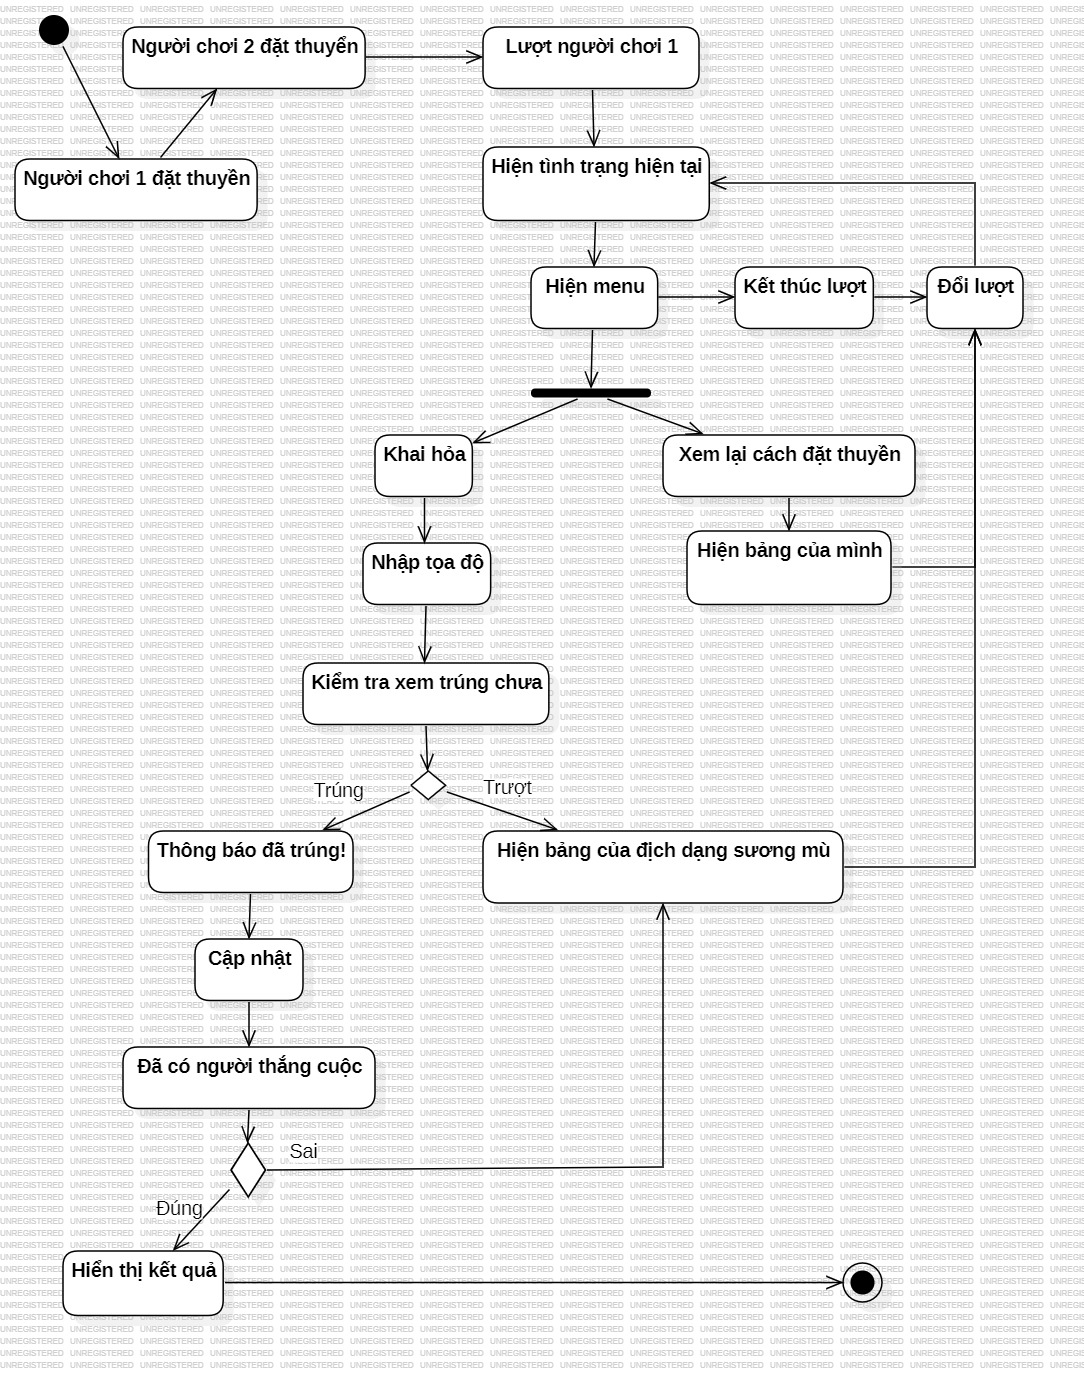
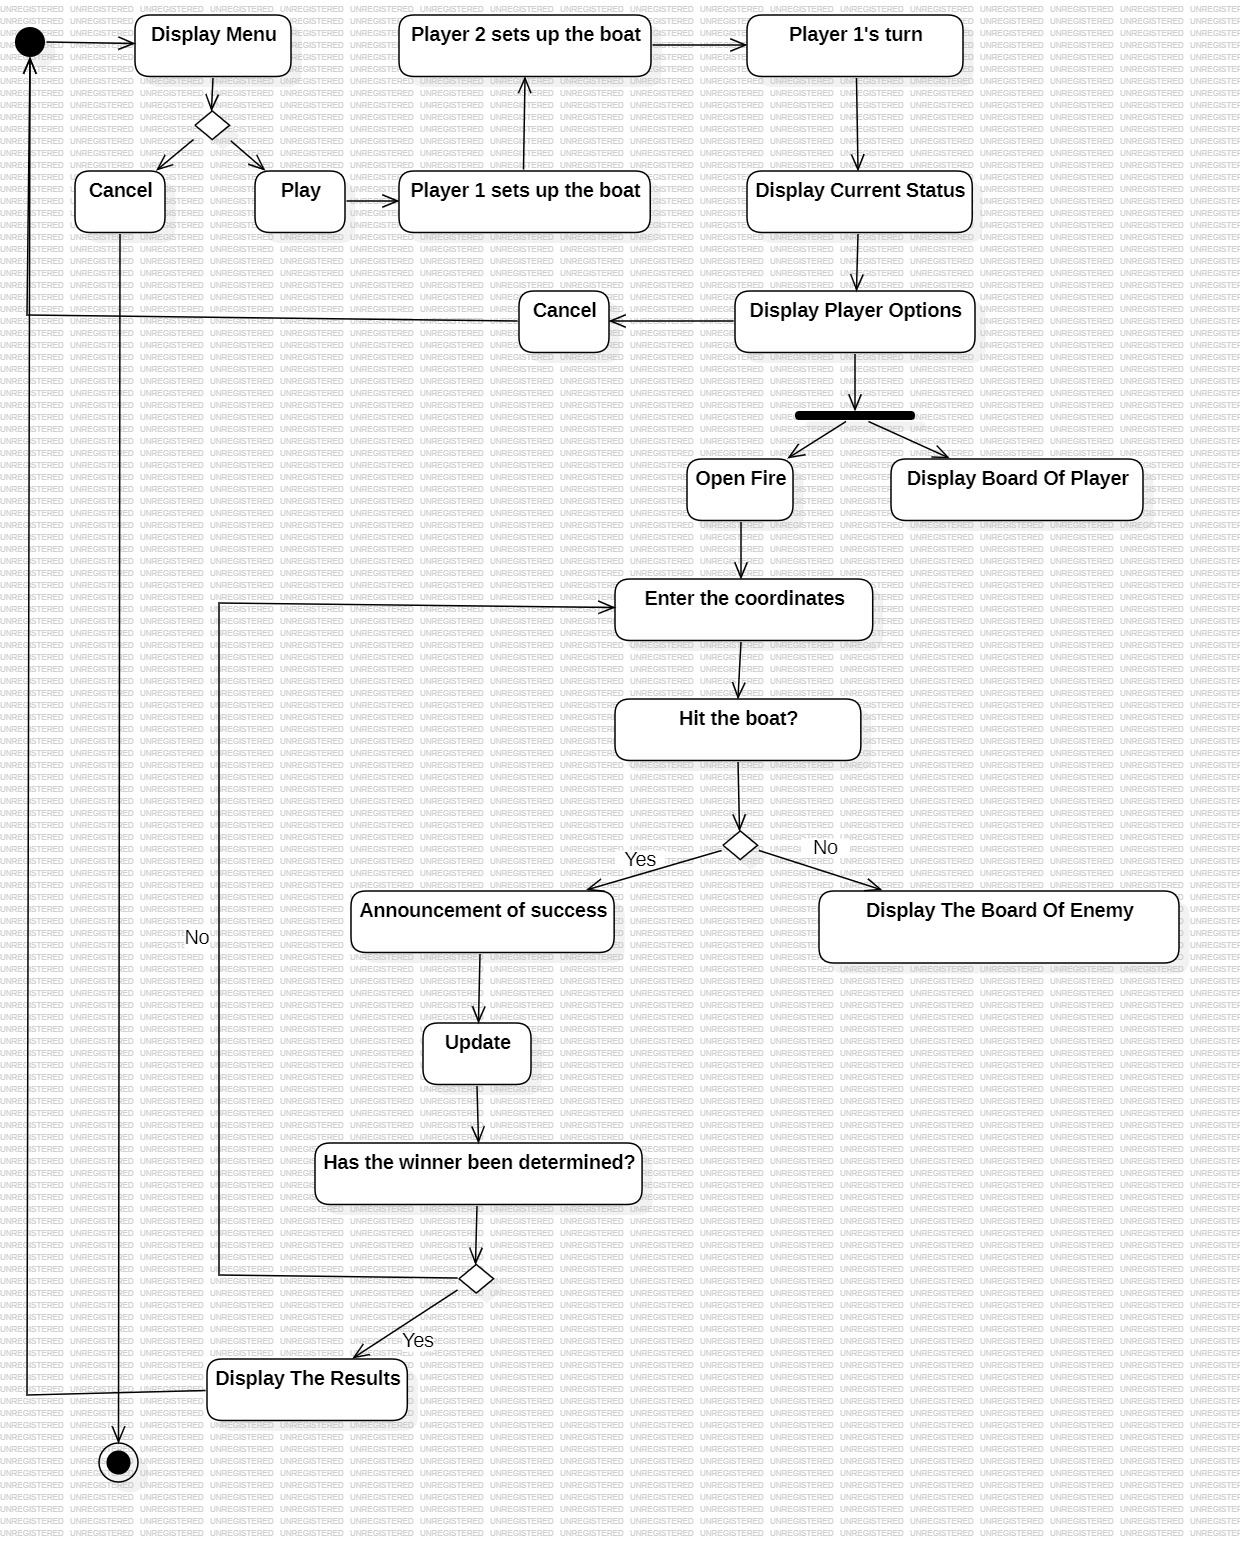
update 3

diff --git a/Đỗ Lý Minh Anh/Product/src/Server.java b/Đỗ Lý Minh Anh/Product/src/Server.java
@@ -44,7 +44,7 @@ public class Server {
                     else {
                         System.out.println("*** Player 2's turn! ***");
                     }
-                    operation.displayCurrentStatusOfThePlayer(activePlayer);
+                    operation.displayCurrentStatus(activePlayer);
                     operation.displayPlayerOptions();
                     System.out.println("--> Enter your choice:");
                     int option2 = Integer.parseInt(sc.nextLine());
@@ -54,10 +54,10 @@ public class Server {
                     else if (option2 == 2) {
                         boolean check;
                         if (mark == 1) {
-                            check = activePlayer.openFire(sc, player2);
+                            check = activePlayer.openFireAndCheck (sc, player2);
                         }
                         else {
-                            check = activePlayer.openFire(sc, player1);
+                            check = activePlayer.openFireAndCheck (sc, player1);
                         }
                         if (check) {
                             operation.displayTheResults(player1, player2);
@@ -66,10 +66,10 @@ public class Server {
                         }
                         else {
                             if (mark == 1) {
-                                operation.displayTheBoardInFogOfWar(player2);
+                                operation.displayTheBoardOfEnemy (player2);
                             }
                             else {
-                                operation.displayTheBoardInFogOfWar(player1);
+                                operation.displayTheBoardOfEnemy (player1);
                             }
                         }
                     }
@@ -86,6 +86,7 @@ public class Server {
                         mark = 1;
                     }
                 }
+
             }
             else {
                 System.out.println("----> GOODBYE!!! <----");

diff --git a/Đỗ Lý Minh Anh/Product/src/Operation.java b/Đỗ Lý Minh Anh/Product/src/Operation.java
@@ -178,7 +178,7 @@ public class Operation {
         }
         return coordinates;
     }
-    public void playerSetsUpTheBoard (Scanner sc, Player player) {
+    public void playerSetsUpTheBoat (Scanner sc, Player player) {
         System.out.println("Setting up the boat...");
         player.setMyBoard();
         Boat thePatrolBoat1 = new Boat();
@@ -259,7 +259,7 @@ public class Operation {
         System.out.println("---> The Battle Ship has been set up in " + theBattleShip.getShape() + " form. <---");
         System.out.println("All boats have been commissioned. Ready for combat!");
     }
-    public boolean playerOpensFire (Scanner sc, Player player, Player enemy) {
+    public boolean playerOpensFireAndCheck (Scanner sc, Player player, Player enemy) {
         System.out.println("Shooting...");
         boolean mark = false;
         String location;
@@ -362,13 +362,13 @@ public class Operation {
         }
         return mark;
     }
-    public void displayCurrentStatusOfThePlayer (Player player) {
+    public void displayCurrentStatus (Player player) {
         System.out.println("My current status:");
         System.out.println("** The number of squares shot on the enemy front: " + player.getTheNumberOfSquaresShot());
         System.out.println("** The number of boats hit: " + player.getTheNumberOfBoatsHit());
         System.out.println("** The number of my remaining boats: " + player.getTheNumberOfMyRemainingBoats());
     }
-    public void displayTheBoardInFogOfWar (Player enemy) {
+    public void displayTheBoardOfEnemy (Player enemy) {
         System.out.println("-> Enemy's board:");
         for (int i = 0; i <= 10; ++i) {
             for (int j = 0; j <= 10; ++j) {

diff --git a/Đỗ Lý Minh Anh/Product/src/Player.java b/Đỗ Lý Minh Anh/Product/src/Player.java
@@ -35,9 +35,9 @@ public class Player {
         }
     }
     public void setUpBoats (Scanner sc) {
-        operation.playerSetsUpTheBoard(sc, this);
+        operation.playerSetsUpTheBoat(sc, this);
     }
-    public boolean openFire (Scanner sc, Player enemy) {
-        return operation.playerOpensFire(sc, this, enemy);
+    public boolean openFireAndCheck (Scanner sc, Player enemy) {
+        return operation.playerOpensFireAndCheck(sc, this, enemy);
     }
 }
